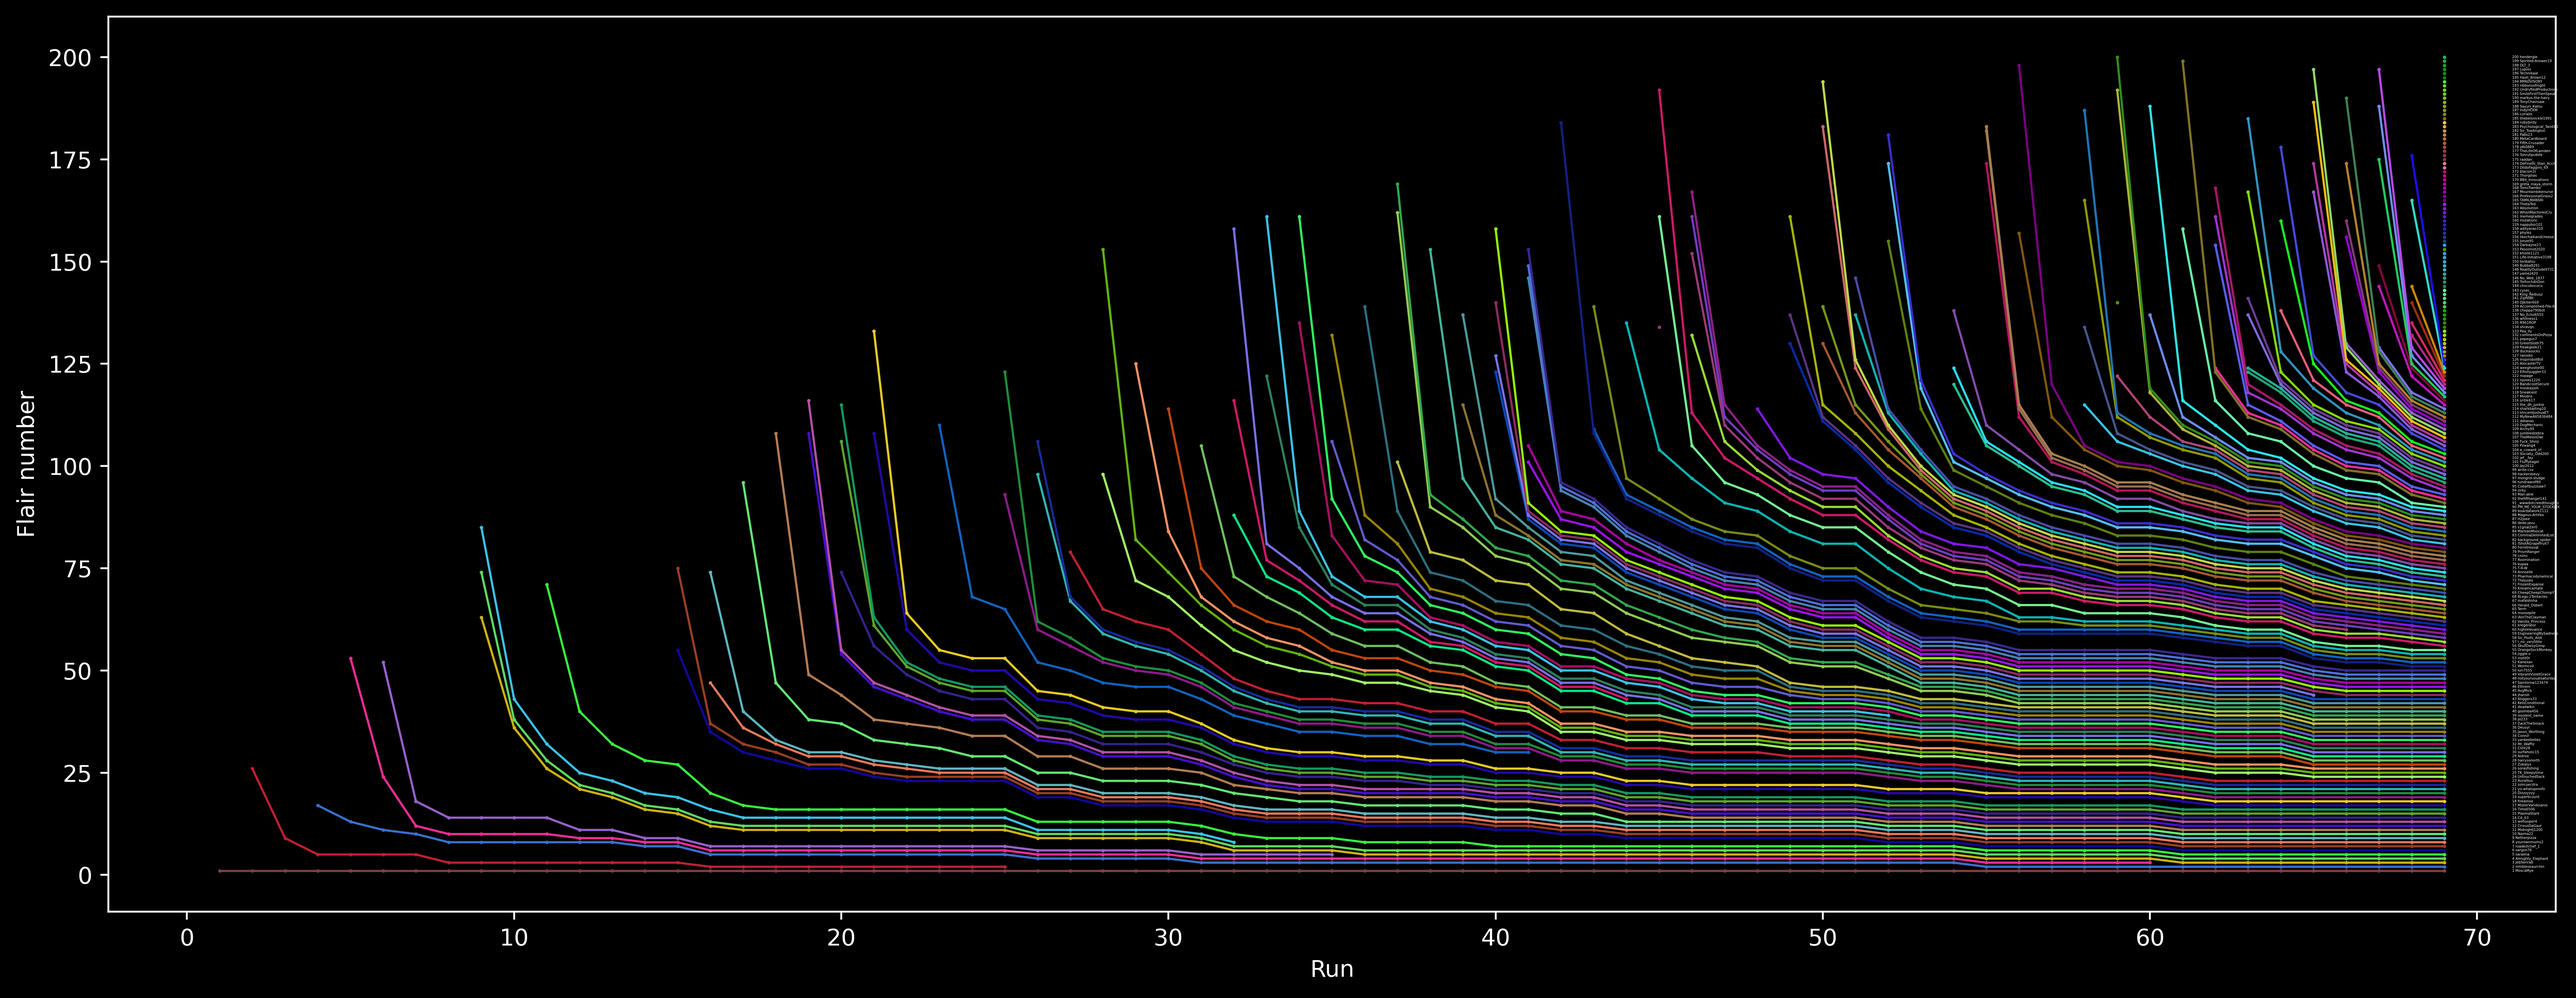
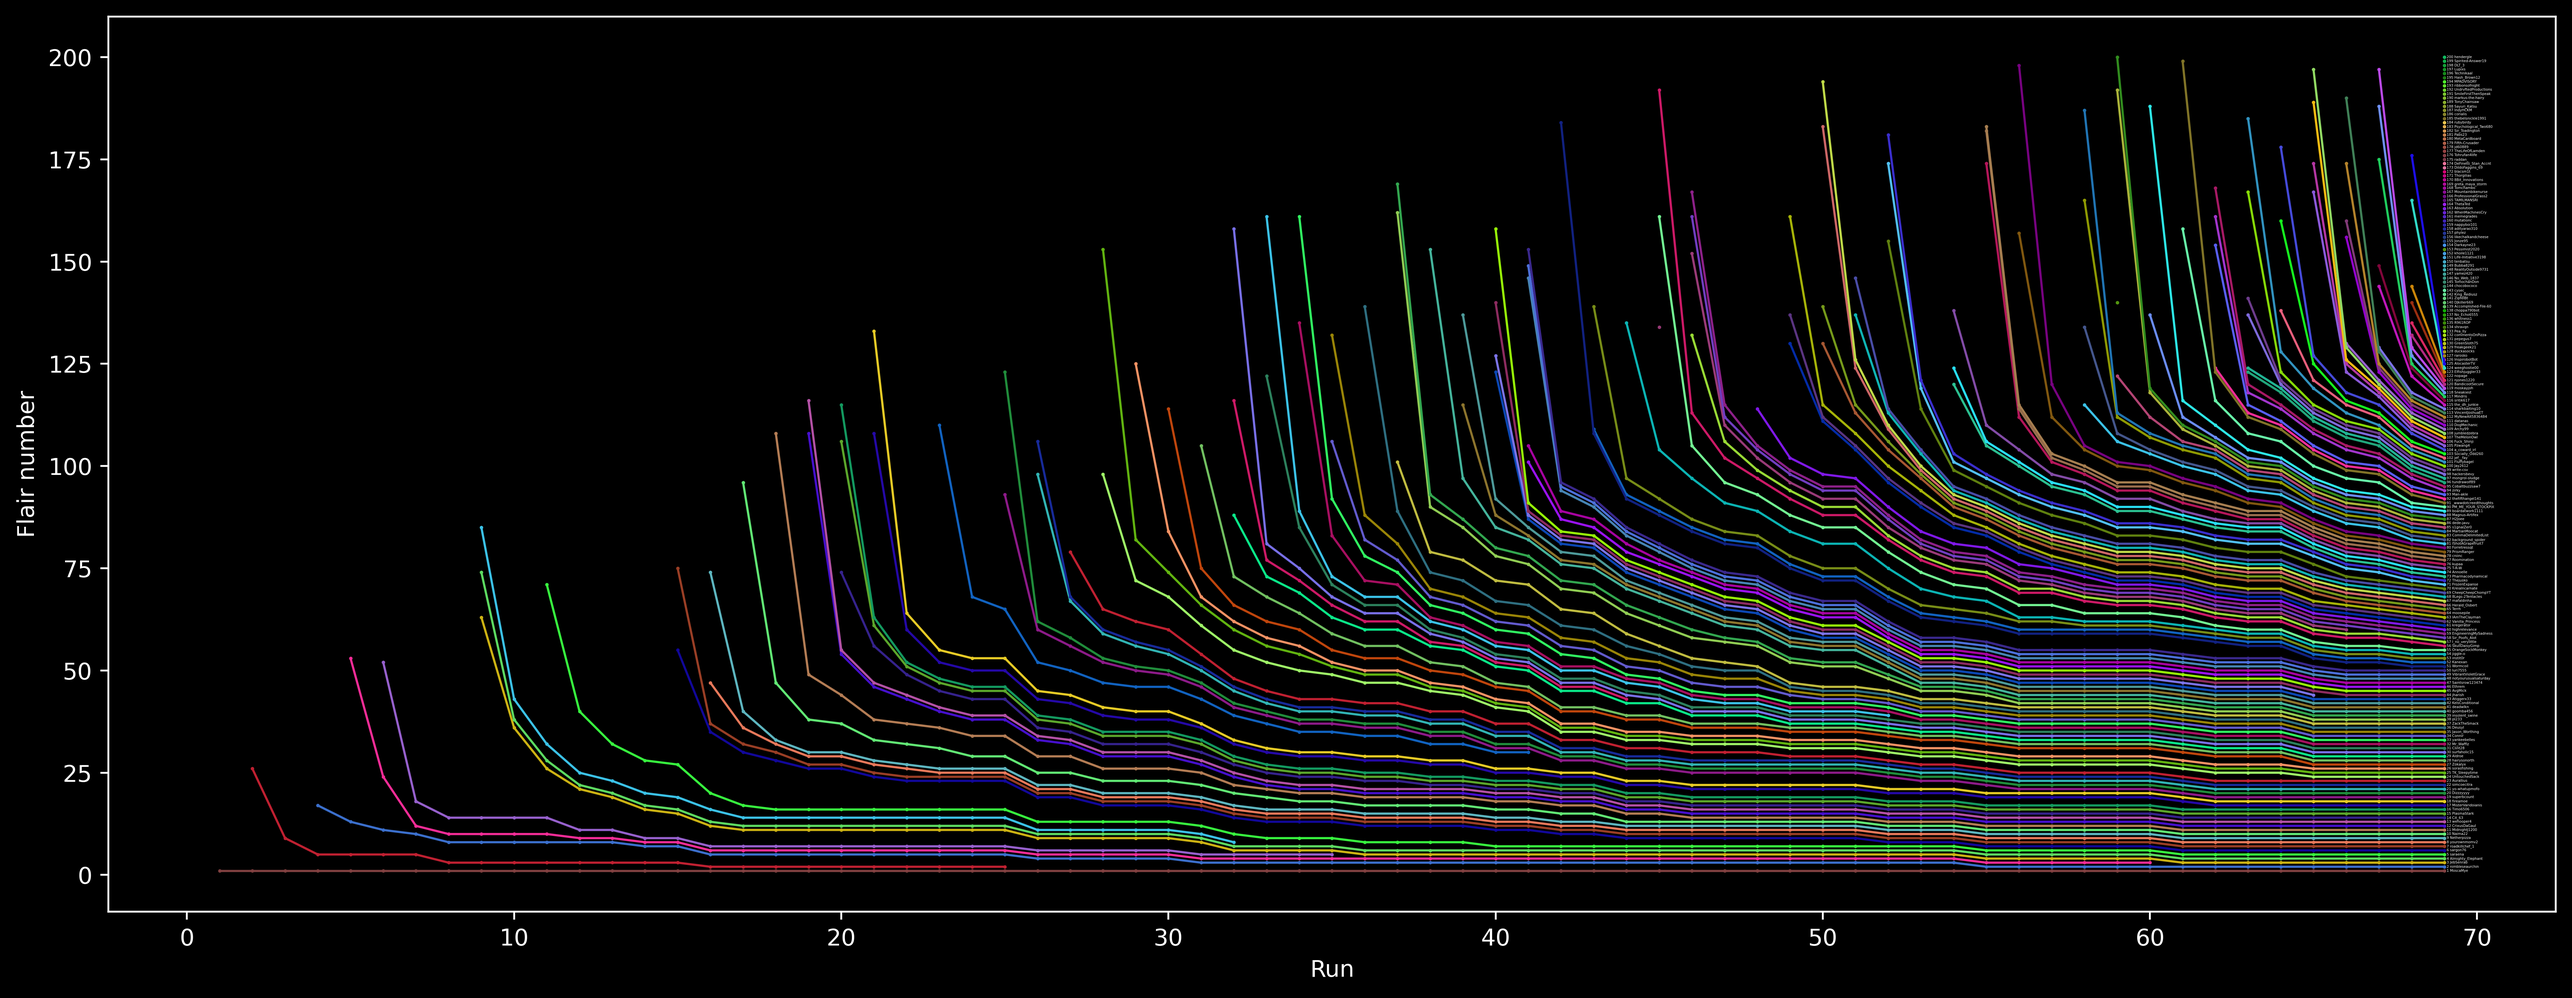
fixed names on allgraph

diff --git a/website/allgraph/allgraphvariation.py b/website/allgraph/allgraphvariation.py
@@ -70,6 +70,6 @@ for i in range(len(mega)):
         plot_user(i, ax)
 for user in mega:
     if int(user[-1]) != 0:
-        ax.text(week-4 + 0.075, int(user[-1]) - 0.2, user[-1] + " " + user[0], fontsize = 1.5)
+        ax.text(week-len(brokenWeeks) + 0.075, int(user[-1]) - 0.2, user[-1] + " " + user[0], fontsize = 1.5)
 plt.savefig("highresvariant.png", dpi = 500, bbox_inches='tight')
 plt.savefig("lowresvariant.png", dpi = 150, bbox_inches="tight")

diff --git a/website/allgraph/allgraphfix.py b/website/allgraph/allgraphfix.py
@@ -71,6 +71,6 @@ for i in range(len(mega)):
     plot_user(i, ax)
 for user in mega:
     if int(user[-1]) != 0:
-        ax.text(week-4 + 0.075, int(user[-1]) - 0.2, user[-1] + " " + user[0], fontsize = 1.5)
+        ax.text(week-len(brokenWeeks) + 0.075, int(user[-1]) - 0.2, user[-1] + " " + user[0], fontsize = 1.5)
 plt.savefig("highres.png", dpi = 500, bbox_inches='tight')
 plt.savefig("lowres.png", dpi = 150, bbox_inches="tight")
